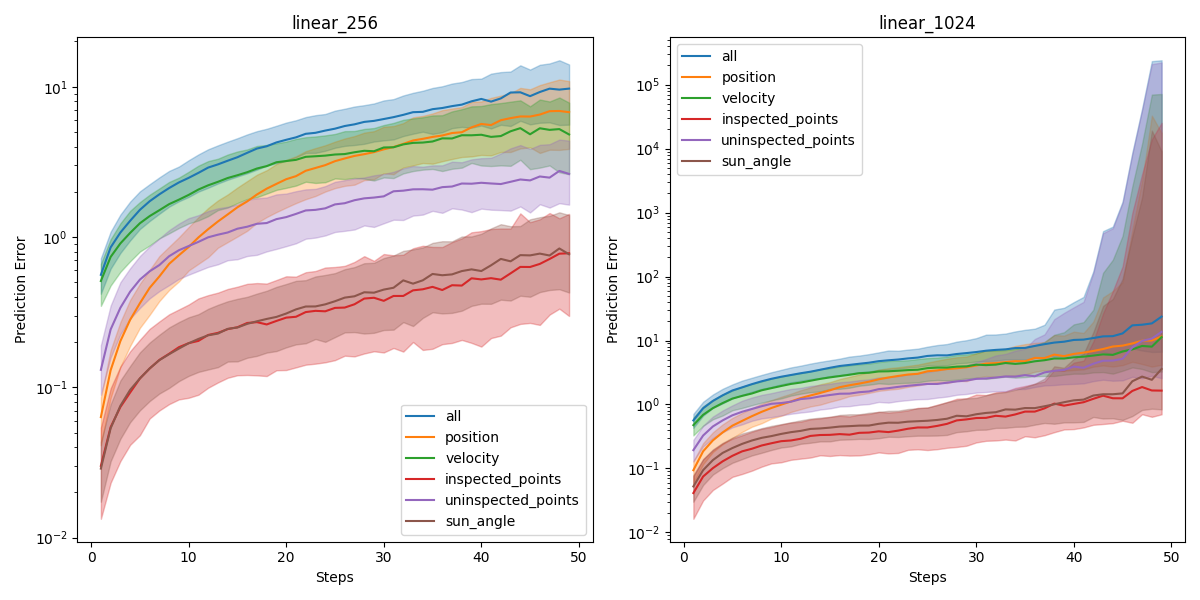
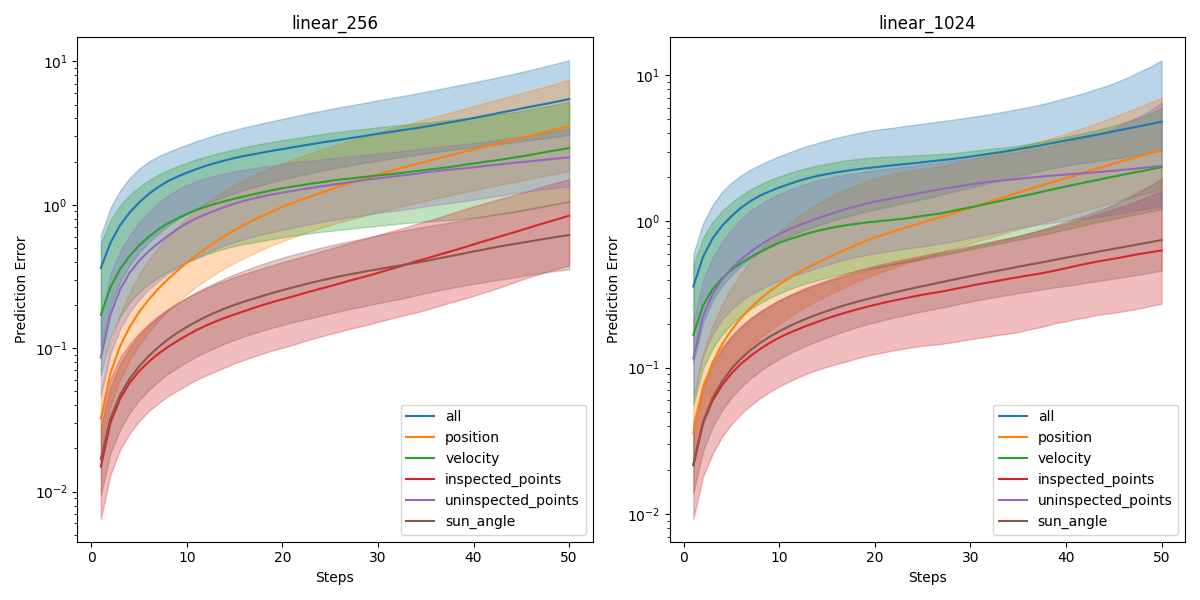
batch processing eval

diff --git a/scripts/evaluate.py b/scripts/evaluate.py
@@ -43,7 +43,6 @@ def get_eval_data(model_name: str, model_cfg: tuple, input_size=15, output_size=
     model.load_state_dict(torch.load(model_cfg[1]))
     model.eval()
 
-
     with torch.no_grad():
         for trajectory_idx, trajectory in enumerate(test_df['Trajectory']):
             # Create multistep predictions for each trajectory in test dataset
@@ -52,19 +51,18 @@ def get_eval_data(model_name: str, model_cfg: tuple, input_size=15, output_size=
             states = state_actions[:,0:output_size]
             # prediction_size = 1
             for delta_t in range(1, max_steps+1):
-                if delta_t > max_steps:
-                    break
-
                 # Compute next prediction step
                 predicted_states = model(state_actions)
                 predicted_states = predicted_states[0:final_state_index - delta_t]
                 state_actions = torch.concat((predicted_states, state_actions[0:final_state_index-delta_t,output_size:input_size]), dim=1)
                 # Compute and store error
                 for i in range(0,final_state_index - delta_t + 1):
-                    if i >= max_steps or i >= predicted_states.shape[0]:
+                    # Iterate through predictions tensor (contains all predictions of depth `delta_t`)
+                    if i >= predicted_states.shape[0]:
+                        # Size of predictions within scope of trajectory decreases each delta_t increment
                         break
                     for state_key, state_range in NAMED_STATE_RANGES.items():
-                        errors[state_key][i+1].append(
+                        errors[state_key][delta_t].append(
                             euclidean_distance(
                                 predicted_states[i][state_range].numpy(),
                                 states[i+delta_t][state_range].numpy()
@@ -99,7 +97,7 @@ if __name__ == "__main__":
     models = {
         # model_name: (model_class, model_file_path)
         "linear_256": (MLP256, 'models/linear_model_256.pth'),
-        # "linear_1024": (MLP1024, 'models/linear_model_1024.pth'),
+        "linear_1024": (MLP1024, 'models/linear_model_1024.pth'),
     }
 
     eval_data = {}
